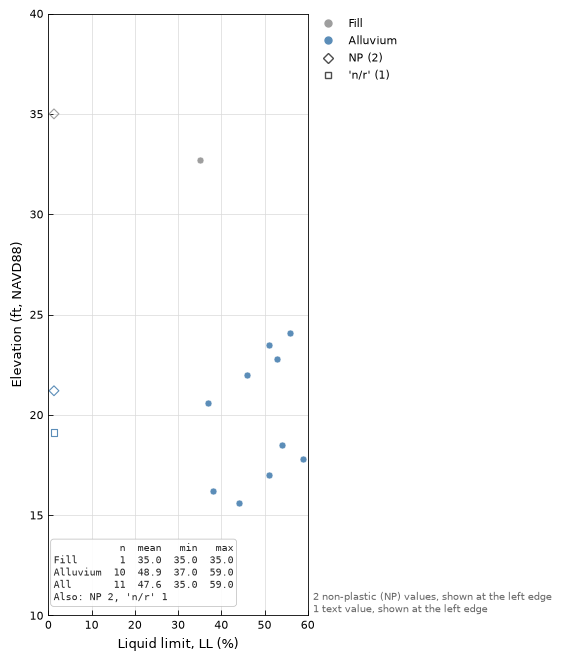
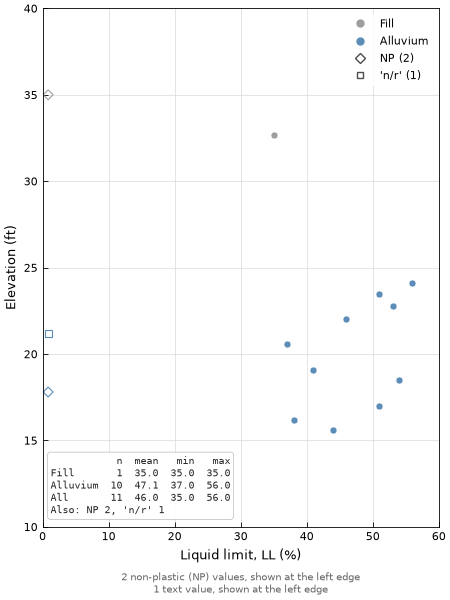
P00: regenerate figures for the new layout; close out
The P01 to P04 and P06 visual checks are redrawn with the legend inside
a clear corner and whole-figure sizes, and looked at: no legend covers
data, and the profiles' axes are wider. The proposed numbers held. P05
and the P07 grid don't change, so their images are kept. P04 §5 now says
the legend usually sits in the upper left. The profile page lists
legend=, and CLAUDE.md records the unit.

diff --git a/CLAUDE.md b/CLAUDE.md
@@ -1,6 +1,6 @@
 # hangtu
 
-Python library that derives the ground parameters a geotechnical design needs, from AGS4 or CSV test data through to model parameter sets, for soil and rock, with plots, analyses, AGS4 ingest/QC and statistics along the way (SPEC §1). The roadmap is organized as stages A–D per parameter and waves 0–6 (SPEC §1.3, §12.4; [`docs/work/parameter-roadmap.md`](docs/work/parameter-roadmap.md)). Done: M0–M9 (the plot framework, P01–P07, SPT analysis, AGS4 ingest into SQLite with `ht.Project`, QC level 1, the joins and datasets, examples, the index analyses and datasets; version 0.1.0; M8 in [`docs/work/m8-index-plots.md`](docs/work/m8-index-plots.md)) and the real-file review items: `spt-report`, `file-units`, `vertical-datum` and `qc-review` (accepted findings, `p.qc(accepted=...)`, D008; each in `docs/work/`), and M13 unit (a): the judgments file, `p.stratigraphy()` and `ht.analysis.vertical_stress()` ([`docs/work/m13a-judgments.md`](docs/work/m13a-judgments.md); sheet 01 is the first page in `docs/site/parameters/`), and M13 unit (b1): `ht.analysis.spt_n1_60()`, hammer efficiency by hole, and `ht.analysis.correlations` with the first φ′ correlations ([`docs/work/m13b1-spt-framework.md`](docs/work/m13b1-spt-framework.md); page 04), and M13 unit (b2): the SPT correlations for s_u, σ′p, OCR and K0, bands as `<target>_lower`/`_upper` drawn by P01, the opt-in USCS map, the chaining warning, and PI by geology unit with `ht.analysis.add_judgment()` ([`docs/work/m13b2-spt-strength-history.md`](docs/work/m13b2-spt-strength-history.md); pages 05–07), and M13 unit (b3): drained E and Vs from SPT, a coefficient by the source's soil row (`soil=`), the `modulus` and `velocity` kinds ([`docs/work/m13b3-spt-stiffness.md`](docs/work/m13b3-spt-stiffness.md); pages 08 and 10), which closes M13. 0.1.0 is on PyPI. Next, in order: wave 1 (M14 phase relations; M12 clogging P17), statistics (M15), wave 0 (M16 user-defined groups and curves), wave 2 (M11 triaxial P11–P12, M17), selection (M18) and waves 3–6. The docs site (Zensical, `docs/site/`, [`docs/work/docs-site.md`](docs/work/docs-site.md)) is built and follows `main`.
+Python library that derives the ground parameters a geotechnical design needs, from AGS4 or CSV test data through to model parameter sets, for soil and rock, with plots, analyses, AGS4 ingest/QC and statistics along the way (SPEC §1). The roadmap is organized as stages A–D per parameter and waves 0–6 (SPEC §1.3, §12.4; [`docs/work/parameter-roadmap.md`](docs/work/parameter-roadmap.md)). Done: M0–M9 (the plot framework, P01–P07, SPT analysis, AGS4 ingest into SQLite with `ht.Project`, QC level 1, the joins and datasets, examples, the index analyses and datasets; version 0.1.0; M8 in [`docs/work/m8-index-plots.md`](docs/work/m8-index-plots.md)) and the real-file review items: `spt-report`, `file-units`, `vertical-datum` and `qc-review` (accepted findings, `p.qc(accepted=...)`, D008; each in `docs/work/`), and M13 unit (a): the judgments file, `p.stratigraphy()` and `ht.analysis.vertical_stress()` ([`docs/work/m13a-judgments.md`](docs/work/m13a-judgments.md); sheet 01 is the first page in `docs/site/parameters/`), and M13 unit (b1): `ht.analysis.spt_n1_60()`, hammer efficiency by hole, and `ht.analysis.correlations` with the first φ′ correlations ([`docs/work/m13b1-spt-framework.md`](docs/work/m13b1-spt-framework.md); page 04), and M13 unit (b2): the SPT correlations for s_u, σ′p, OCR and K0, bands as `<target>_lower`/`_upper` drawn by P01, the opt-in USCS map, the chaining warning, and PI by geology unit with `ht.analysis.add_judgment()` ([`docs/work/m13b2-spt-strength-history.md`](docs/work/m13b2-spt-strength-history.md); pages 05–07), and M13 unit (b3): drained E and Vs from SPT, a coefficient by the source's soil row (`soil=`), the `modulus` and `velocity` kinds ([`docs/work/m13b3-spt-stiffness.md`](docs/work/m13b3-spt-stiffness.md); pages 08 and 10), which closes M13, and the plot layout defaults: the legend inside a clear corner (`legend=`), correlations named by citation, and whole-figure sizes with a `chart` kind ([`docs/work/p00-layout-defaults.md`](docs/work/p00-layout-defaults.md)). 0.1.0 is on PyPI. Next, in order: wave 1 (M14 phase relations; M12 clogging P17), statistics (M15), wave 0 (M16 user-defined groups and curves), wave 2 (M11 triaxial P11–P12, M17), selection (M18) and waves 3–6. The docs site (Zensical, `docs/site/`, [`docs/work/docs-site.md`](docs/work/docs-site.md)) is built and follows `main`.
 
 ## Where things are
 - `SPEC.md`: product spec and cross-cutting decisions. Read the relevant section before designing anything.

diff --git a/docs/work/p00-layout-defaults.md b/docs/work/p00-layout-defaults.md
@@ -131,8 +131,7 @@ right".
    that corner.
 4. A strata band behind the upper-right corner doesn't block it, while the strata label in that corner does.
 5. The P01 stats box at the lower left blocks that corner.
-6. P03 bars are data: a bar reaching into a corner blocks it. (The bars must be drawn at a data layer: see the
-   plan.)
+6. P03 bars are data: a bar reaching into a corner blocks it. (P03 already draws its bars at `_layers.MARKERS`.)
 7. `legend="right"` gives today's legend position, within 1 pt, including with `secondary="depth"`.
 8. `legend=False` draws no legend, the footnote still renders, and `ax.ags_notes` is unchanged.
 9. An invalid `legend=` raises `HangtuError` naming the allowed values.
@@ -179,21 +178,24 @@ so the build commits change code, tests and generated figures.
    - `src/hangtu/plot/_legend.py`: `where="auto" | "inside"`, the corner search, the obstacle collection, the
      returned placement and the frame.
    - `src/hangtu/plot/_notes.py`: `render` follows the placement.
-   - `src/hangtu/plot/_layers.py`: a `BARS` layer for P03, with `_spt_histogram.py` drawing bars at it.
+   - No new layer: P03 already draws its bars at `_layers.MARKERS`, above `_layers.LINES`.
    - Tests (criteria 1–6, 16): new `tests/plot/test_legend_placement.py`, with synthetic axes for each obstacle
-     kind. If the commit passes about 300 lines, split the obstacle collection (with its tests) into its own
-     commit before this one.
+     kind. Built as two commits: first the returned placement and `Notes.render` following it, with
+     `below_x_label()` measuring the x label (P03's class labels are three lines), then the corner search.
 4. **`P00: add legend= to every plot with a legend`**
    - The `legend=` argument, its validation and docstrings in `_profile.py`, `_spt_profile.py`,
      `_water_content_profile.py`, `_spt_histogram.py`, `_plasticity_chart.py`, `_geology_units.py` (single panel;
      `offset=` only for `"right"`) and `_grain_size.py` (default `"bottom"`).
-   - Tests (criteria 7–9) in each plot's test file.
+   - Tests (criteria 7–9): new `tests/plot/test_legend_argument.py`, every plot in one place.
    - Update existing tests that assume the legend is on the right: find them with
      `grep -rn "bbox_to_anchor\|get_window_extent\|legend" tests/plot`.
 5. **`P00: wrap long legend entries`**
    - `_legend.py`: wrap each handle's label before building the legend.
    - Test (criterion 15) in `tests/plot/test_legend_and_hints.py`.
 6. **`P00: regenerate figures for the new layout; close out`**
+   - Done: the 🟡 numbers held (28 characters, 4 pt, the sizes and the frame). P05 and the P07 grid are
+     unchanged, so their images were kept. P04's legend usually finds the upper left clear, above the U-line,
+     and P04 §5 says so.
    - Regenerate `docs/plots/img/` with `sandbox/try_plots.py` or each spec's image script, then
      `uv run python docs/prepare_site.py`.
    - Look at every image (criterion 17) and adjust the 🟡 numbers if a figure shows they're wrong, updating the

diff --git a/docs/plots/P04-plasticity-chart.md b/docs/plots/P04-plasticity-chart.md
@@ -77,7 +77,7 @@ A second use: a project's own soil groups, drawn as regions in LL–PI space, so
 ## 5. Figure layout
 - **Panels:** single.
 - **Default size:** `default` (6.5 × 4.5 in). Equal aspect makes the 100 × 60 box fill the width.
-  - For information: the zone labels and the A-line usually block every corner, so the legend usually goes below the x label (P00 §11). That is expected.
+  - For information: the upper left, above the U-line, is usually clear, so the legend usually sits there (P00 §11). With points or a region there, it goes below the x label.
 - **Orientation:** landscape.
 
 ## 6. Axes

diff --git a/docs/site/plots/profile.md b/docs/site/plots/profile.md
@@ -29,6 +29,7 @@ A value reported as a range at one depth, such as a correlation's band, is drawn
 | `strata=`, `water_level=` | Geology boundaries and water levels across the plot |
 | `ranges=`, `design_lines=`, `reference_lines=` | A report's ranges, design lines or fixed values to compare with |
 | `stats_box=True` | Count, mean, standard deviation, median, minimum and maximum |
+| `legend=` | `"auto"`: inside, in a corner clear of data, else below; or `"bottom"`, `"right"`, `False` |
 
 ## See also
 
